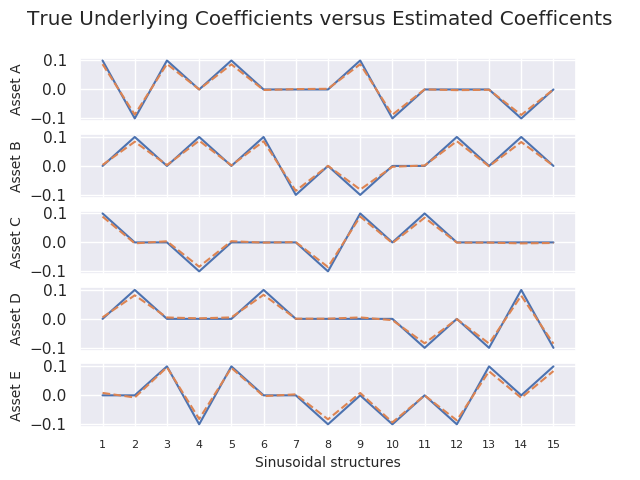
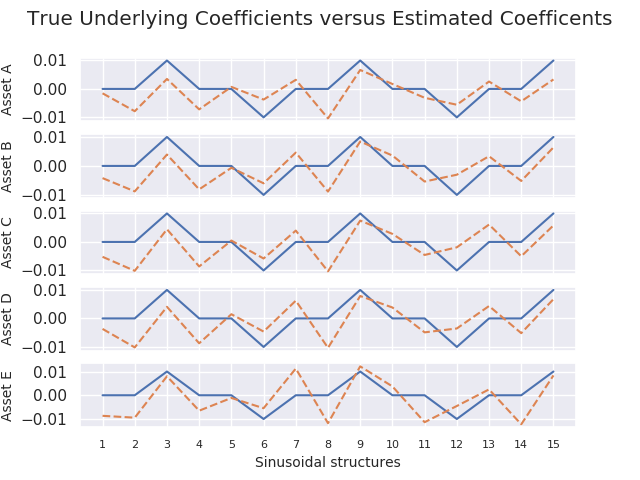
Added CovRegpy_GARCH and CovRegpy_JSE_Top_40 scripts.

diff --git a/CovRegpy_GARCH_model.py b/CovRegpy_GARCH_model.py
@@ -1,0 +1,180 @@
+
+import mgarch
+import numpy as np
+import pandas as pd
+import yfinance as yf
+from arch import arch_model
+import matplotlib.pyplot as plt
+
+from AdvEMDpy import emd_basis
+
+np.random.seed(3)
+
+# data = [np.random.normal(0, np.sqrt(i*0.01)) for i in range(0, 1000)]
+# n_test = 100
+# train, test = data[:-n_test], data[-n_test:]
+# model = arch_model(train, mean='Zero', vol='GARCH', p=15, q=15)
+# # model = arch_model(train, mean='Zero', vol='ARCH', p=15)
+# model_fit = model.fit()
+# yhat = model_fit.forecast(horizon=n_test)
+# var = [i*0.01 for i in range(0, 1000)]
+# plt.plot(var[-n_test:])
+# plt.plot(yhat.variance.values[-1, :])
+# plt.show()
+
+# pull all close data
+tickers_format = ['MSFT', 'AAPL', 'GOOGL', 'AMZN', 'TSLA']
+data = yf.download(tickers_format, start="2018-12-31", end="2021-12-01")
+close_data = data['Close']
+del data, tickers_format
+
+# create date range and interpolate
+date_index = pd.date_range(start='31/12/2018', end='12/01/2021')
+close_data = close_data.reindex(date_index).interpolate()
+close_data = close_data[::-1].interpolate()
+close_data = close_data[::-1]
+del date_index
+
+# calculate returns and realised covariance
+returns = (np.log(np.asarray(close_data)[1:, :]) -
+           np.log(np.asarray(close_data)[:-1, :]))
+realised_covariance = np.cov(returns.T)
+risk_free = (0.02 / 365)
+
+model_days = 731
+knots = 80
+forecast_days = 30
+knots_vector = np.linspace(0, model_days - 1, int(knots - 6))
+knots_vector = np.linspace(-knots_vector[3], 2 * (model_days - 1) - knots_vector[-4], knots)
+returns_subset_forecast = returns[:model_days, :]
+
+spline_basis_transform = emd_basis.Basis(time_series=np.arange(model_days), time=np.arange(model_days))
+spline_basis_transform = spline_basis_transform.cubic_b_spline(knots=knots_vector)
+coef_forecast = np.linalg.lstsq(spline_basis_transform.T, returns_subset_forecast, rcond=None)[0]
+mean_forecast = np.matmul(coef_forecast.T, spline_basis_transform).T
+
+# for i in range(5):
+#     plt.plot(returns_subset_forecast[:, i])
+#     plt.plot(mean_forecast[:, i])
+#     plt.show()
+
+# vol = mgarch.mgarch()
+# vol.fit(returns_subset_forecast)
+ndays = 10
+# cov_nextday = vol.predict(ndays)
+
+P = 3
+Q = 3
+params = np.zeros(P + Q + 1)
+modelled_variance = np.zeros_like(returns_subset_forecast)
+
+for stock in range(5):
+    returns_minus_mean = returns_subset_forecast[:, stock] - mean_forecast[:, stock]
+    model = arch_model(returns_minus_mean, mean='Zero', vol='GARCH', p=P, q=Q)
+    model_fit = model.fit()
+    modelled_variance[:, stock] = model_fit.conditional_volatility
+    params += np.asarray(model_fit.params)
+params /= 5
+
+returns_minus_mean = returns_subset_forecast - mean_forecast
+t = np.shape(returns_minus_mean)[0]
+q_bar = np.cov(returns_minus_mean.T)
+q_t = np.zeros((t, np.shape(q_bar)[0], np.shape(q_bar)[1]))
+r_t = np.zeros((t, np.shape(q_bar)[0], np.shape(q_bar)[1]))
+h_t = np.zeros((t, np.shape(q_bar)[0], np.shape(q_bar)[1]))
+for q_row in range(P):
+    q_t[q_row] = np.matmul(returns_minus_mean[q_row, :].reshape(-1, 1) / 2,
+                           returns_minus_mean[q_row, :].reshape(1, -1) / 2)
+dts = np.zeros((t, np.shape(q_bar)[0], np.shape(q_bar)[1]))
+for var in range(t):
+    dts[var] = np.diag(modelled_variance[var, :])
+dts_inv = np.zeros((t, np.shape(q_bar)[0], np.shape(q_bar)[1]))
+for var in range(t):
+    dts_inv[var] = np.linalg.inv(dts[var])
+et = np.zeros((t, np.shape(q_bar)[0], np.shape(q_bar)[1]))
+for var in range(t):
+    et[var] = dts_inv[var] * returns_minus_mean[var, :].T
+qts = np.zeros((t, np.shape(q_bar)[0], np.shape(q_bar)[1]))
+r_t = np.zeros((t, np.shape(q_bar)[0], np.shape(q_bar)[1]))
+params_a_matrix = np.ones((P, np.shape(q_bar)[0], np.shape(q_bar)[1]))
+params_b_matrix = np.ones((P, np.shape(q_bar)[0], np.shape(q_bar)[1]))
+for param in range(P):
+    params_a_matrix[param] = params[int(param + 1)] * params_a_matrix[param]
+    params_b_matrix[param] = params[int(param + P + 1)] * params_b_matrix[param]
+q_bar_matrix = np.zeros((P, np.shape(q_bar)[0], np.shape(q_bar)[1]))
+for var in range(P, t):
+    q_t[var] = (1 - sum(params[1:])) * q_bar + \
+               np.sum(params_a_matrix * (et[int(var - P):var] * et[int(var - P):var]), axis=0) + \
+               np.sum(params_b_matrix * q_t[int(var - P):var], axis=0)
+    qts[var] = np.linalg.inv(np.sqrt(np.diag(np.diag(q_t[var]))))
+    r_t[var] = np.matmul(qts[var], np.matmul(q_t[var], qts[var]))
+    h_t[var] = np.matmul(dts[var], np.matmul(r_t[var], dts[var]))
+
+forecasted_covariance = h_t[-1] * np.sqrt(ndays)
+
+
+def covregpy_mgarch(returns_matrix, p=3, q=3, days=10, correlation=False):
+
+    if np.shape(returns_matrix)[0] < np.shape(returns_matrix)[1]:
+        returns_matrix = returns_matrix.T
+    if p != q:
+        p = np.min(p, q)
+        q = np.min(p, q)
+
+    params = np.zeros(int(1 + p + q))
+    modelled_variance = np.zeros_like(returns_matrix)
+
+    for stock in range(np.shape(returns_matrix)[1]):
+        model = arch_model(returns_matrix[:, stock], mean='Zero', vol='GARCH', p=p, q=q)
+        model_fit = model.fit()
+        modelled_variance[:, stock] = model_fit.conditional_volatility
+        params += np.asarray(model_fit.params)
+    params /= np.shape(returns_matrix)[1]
+
+    t = np.shape(returns_matrix)[0]
+    q_bar = np.cov(returns_matrix.T)
+    q_t = np.zeros((t, np.shape(q_bar)[0], np.shape(q_bar)[1]))
+    h_t = np.zeros((t, np.shape(q_bar)[0], np.shape(q_bar)[1]))
+    for q_row in range(p):
+        q_t[q_row] = np.matmul(returns_matrix[q_row, :].reshape(-1, 1) / 2,
+                               returns_matrix[q_row, :].reshape(1, -1) / 2)
+    dts = np.zeros((t, np.shape(q_bar)[0], np.shape(q_bar)[1]))
+    for var in range(t):
+        dts[var] = np.diag(modelled_variance[var, :])
+    dts_inv = np.zeros((t, np.shape(q_bar)[0], np.shape(q_bar)[1]))
+    for var in range(t):
+        dts_inv[var] = np.linalg.inv(dts[var])
+    et = np.zeros((t, np.shape(q_bar)[0], np.shape(q_bar)[1]))
+    for var in range(t):
+        et[var] = dts_inv[var] * returns_matrix[var, :].T
+    qts = np.zeros((t, np.shape(q_bar)[0], np.shape(q_bar)[1]))
+    r_t = np.zeros((t, np.shape(q_bar)[0], np.shape(q_bar)[1]))
+    params_a_matrix = np.ones((p, np.shape(q_bar)[0], np.shape(q_bar)[1]))
+    params_b_matrix = np.ones((p, np.shape(q_bar)[0], np.shape(q_bar)[1]))
+    for param in range(p):
+        params_a_matrix[param] = params[int(param + 1)] * params_a_matrix[param]
+        params_b_matrix[param] = params[int(param + q + 1)] * params_b_matrix[param]
+    for var in range(p, t):
+        q_t[var] = (1 - sum(params[1:])) * q_bar + \
+                   np.sum(params_a_matrix * (et[int(var - p):var] * et[int(var - p):var]), axis=0) + \
+                   np.sum(params_b_matrix * q_t[int(var - p):var], axis=0)
+        # q_t[var] = q_bar
+        qts[var] = np.linalg.inv(np.sqrt(np.diag(np.diag(q_t[var]))))
+        r_t[var] = np.matmul(qts[var], np.matmul(q_t[var], qts[var]))
+        h_t[var] = np.matmul(dts[var], np.matmul(r_t[var], dts[var]))
+
+    forecasted_covariance = h_t[-1] * np.sqrt(days)
+
+    if correlation:
+        corr = np.zeros_like(forecasted_covariance)
+        for i in range(np.shape(corr)[0]):
+            for j in range(np.shape(corr)[1]):
+                corr[i, j] = forecasted_covariance[i, j] / (np.sqrt(forecasted_covariance[i, i]) * np.sqrt(forecasted_covariance[j, j]))
+        print(corr)
+
+    return forecasted_covariance
+
+
+temp = covregpy_mgarch(returns_minus_mean, p=3, q=3, days=10, correlation=True)
+
+print(forecasted_covariance - temp)

diff --git a/CovRegpy_JSE_Top_40.py b/CovRegpy_JSE_Top_40.py
@@ -1,0 +1,51 @@
+
+import numpy as np
+import pandas as pd
+import yfinance as yf
+
+from AdvEMDpy import AdvEMDpy, emd_basis
+
+# seed random number generation
+np.random.seed(0)
+
+# pull all close data
+tickers_format = ['ABG.JO', 'AGL.JO', 'AMS.JO', 'ANG.JO', 'APN.JO', 'BHP.JO', 'BID.JO', 'BTI.JO', 'BVT.JO', 'CFR.JO',
+                  'CLS.JO', 'CPI.JO', 'DSY.JO', 'EXX.JO', 'FSR.JO', 'GFI.JO', 'GLN.JO', 'GRT.JO', 'IMP.JO', 'INL.JO',
+                  'INP.JO', 'MCG.JO', 'MNP.JO', 'MRP.JO', 'MTN.JO', 'NED.JO', 'NPH.JO', 'NPN.JO', 'NRP.JO', 'OMU.JO',
+                  'PRX.JO', 'REM.JO', 'RNI.JO', 'SBK.JO', 'SHP.JO', 'SLM.JO', 'SOL.JO', 'SPP.JO', 'SSW.JO', 'VOD.JO',
+                  'WHL.JO']
+data = yf.download(tickers_format, start="2018-12-31", end="2022-01-01")
+close_data = data['Close']
+del data, tickers_format
+
+# create date range and interpolate
+date_index = pd.date_range(start='31/12/2018', end='01/01/2022')
+close_data = close_data.reindex(date_index).interpolate()
+close_data = close_data[::-1].interpolate()
+close_data = close_data[::-1]
+del date_index
+
+# daily risk free rate
+risk_free = (0.02 / 365)
+
+# setup time and knots for EMD
+time = np.arange(np.shape(close_data)[0])
+knots = 70
+
+# calculate returns for CRC
+returns = (np.log(np.asarray(close_data)[1:, :]) -
+           np.log(np.asarray(close_data)[:-1, :]))
+
+# store tickers and partition model days and forecast days
+tickers = close_data.columns.values.tolist()
+model_days = 731  # 2 years - less a month
+forecast_days = np.shape(close_data)[0] - model_days - 30
+
+# set up basis for mean extraction in CRC
+spline_basis_transform = emd_basis.Basis(time_series=np.arange(model_days), time=np.arange(model_days))
+spline_basis_transform = spline_basis_transform.cubic_b_spline(knots=np.linspace(0, model_days - 1, knots))
+
+# store weights calculated throughout model
+weights = np.zeros((forecast_days, np.shape(close_data)[1]))
+
+

diff --git a/CovRegpy_synthetic_case_study.py b/CovRegpy_synthetic_case_study.py
@@ -45,18 +45,19 @@ del close_data, data, date_index, tickers_format
 
 # create correlation structure - random structure
 B = np.zeros((5, 15))
-for i in range(5):
-    for j in range(15):
-        rand_uni = np.random.uniform(0, 1)
-        B[i, j] = 0.1 * (-1) ** (i + j) if rand_uni > 1 / 2 else 0
-del i, j, rand_uni
+# for i in range(5):
+#     for j in range(15):
+#         rand_uni = np.random.uniform(0, 1)
+#         B[i, j] = 1 * (-1) ** (i + j) if rand_uni > 1 / 2 else 0
+# del i, j, rand_uni
 
 # LARS test - best results
-# B[:, 2] = 1
-# B[:, 5] = -1
-# B[:, 8] = 1
-# B[:, 11] = -1
-# B[:, 14] = 1
+B[:, 2] = 1
+B[:, 5] = -1
+B[:, 8] = 1
+B[:, 11] = -1
+B[:, 14] = 1
+B = 0.01 * B
 
 # LARS test - structures too close to be isolated
 # B[:, 2] = 1
@@ -97,7 +98,7 @@ spline_basis_transform = spline_basis_transform.cubic_b_spline(knots=np.linspace
 for lag in range(forecast_days):
     print(lag)
 
-    if lag in [0, 30, 61, 91, 122, 153, 181, 212, 242, 273, 303, 334]:
+    if lag in [0, 31, 59, 90, 120, 151, 181, 212, 243, 273, 304, 334]:  # 0 : 31-12-2020 # 365 : 31-12-2021
 
         all_data = imfs_synth[:, lag:int(model_days + lag + 1)].T  # use actual underlying structures
         groups = np.zeros((76, 1))  # LATER
@@ -114,7 +115,7 @@ for lag in range(forecast_days):
         B_est, Psi_est = cov_reg_given_mean(A_est=np.zeros_like(coef), basis=spline_basis_transform,
                                             x=x[:, :-1], y=returns_subset.T,
                                             iterations=10, technique='direct', max_iter=500,
-                                            groups=groups, LARS=True, true_coefficients=B)
+                                            groups=groups, LARS=False, true_coefficients=B)
 
         fig, axs = plt.subplots(5, 1)
         assets = ['Asset A', 'Asset B', 'Asset C', 'Asset D', 'Asset E']

diff --git a/CovRegpy_MAAAT_Direct.py b/CovRegpy_MAAAT_Direct.py
@@ -9,16 +9,17 @@ from CovRegpy_portfolio_weighting_functions import rb_p_weights, global_obj_fun,
 from CovRegpy_portfolio_sharpe_ratio import sharpe_weights, sharpe_weights_long
 import matplotlib.pyplot as plt
 
+# seed random number generation
 np.random.seed(1)
 
 # pull all close data
 tickers_format = ['MSFT', 'AAPL', 'GOOGL', 'AMZN', 'TSLA']
-data = yf.download(tickers_format, start="2018-10-15", end="2021-10-16")
+data = yf.download(tickers_format, start="2018-12-31", end="2022-01-01")
 close_data = data['Close']
 del data, tickers_format
 
 # create date range and interpolate
-date_index = pd.date_range(start='16/10/2018', end='16/10/2021')
+date_index = pd.date_range(start='31/12/2018', end='01/01/2022')
 close_data = close_data.reindex(date_index).interpolate()
 close_data = close_data = close_data[::-1].interpolate()
 close_data = close_data = close_data[::-1]
@@ -37,7 +38,7 @@ returns = (np.log(np.asarray(close_data)[1:, :]) -
 
 # store tickers and partition model days and forecast days
 tickers = close_data.columns.values.tolist()
-model_days = 701  # 2 years - less a month
+model_days = 731  # 2 years - less a month
 forecast_days = np.shape(close_data)[0] - model_days - 30
 
 # set up basis for mean extraction in CRC
@@ -59,7 +60,7 @@ for lag in range(forecast_days):
     all_data_low_freq = all_data.copy()
     all_data_high_freq = all_data.copy()
 
-    if lag in [0, 30, 61, 91, 122, 153, 181, 212, 242, 273, 303, 334]:  # 0 : 16-09-2021
+    if lag in [0, 31, 59, 90, 120, 151, 181, 212, 243, 273, 304, 334]:  # 0 : 31-12-2020 # 365 : 31-12-2021
 
         for j in range(np.shape(all_data)[1]):  # for individual stock in matrix
 

diff --git a/CovRegpy_MAAAT_GP.py b/CovRegpy_MAAAT_GP.py
@@ -89,7 +89,7 @@ for lag in range(forecast_days):
                 for imf in range(np.shape(imfs)[0]):
                     all_data[f'{tickers[j]}_close_imf_{int(imf + 1)}'] = imfs[imf, :]
                 all_data_high_freq[f'{tickers[j]}_close_imf_{1}'] = imfs[0, :]
-                all_data_low_freq[f'{tickers[j]}_close_imf_{4}'] = imfs[-1, :]
+                all_data_low_freq[f'{tickers[j]}_close_imf_last'] = imfs[-1, :]
 
             except:
                 all_data[f'{tickers[j]}_close_imf_{1}'] = imfs
